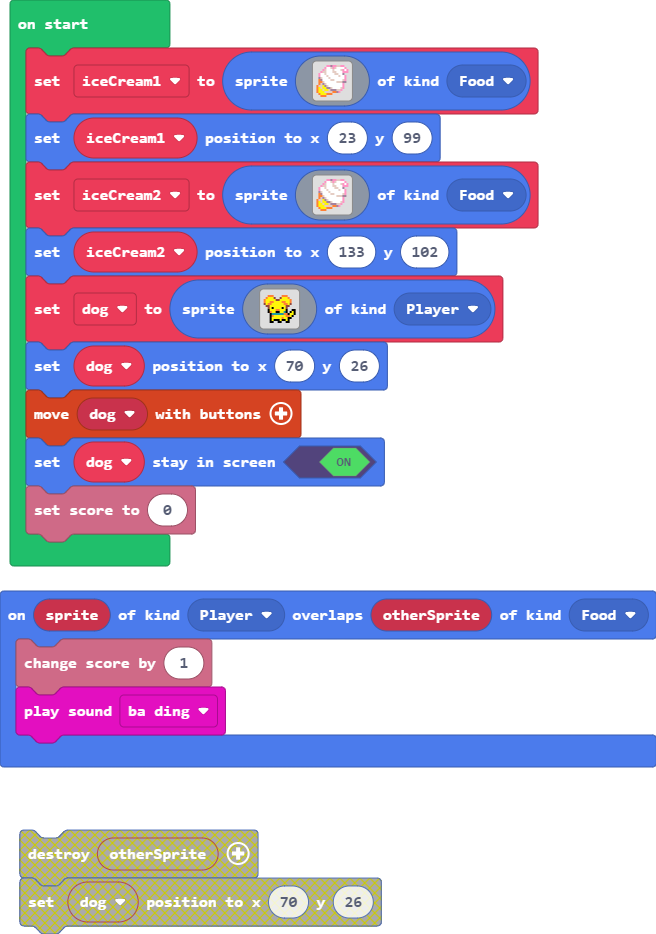
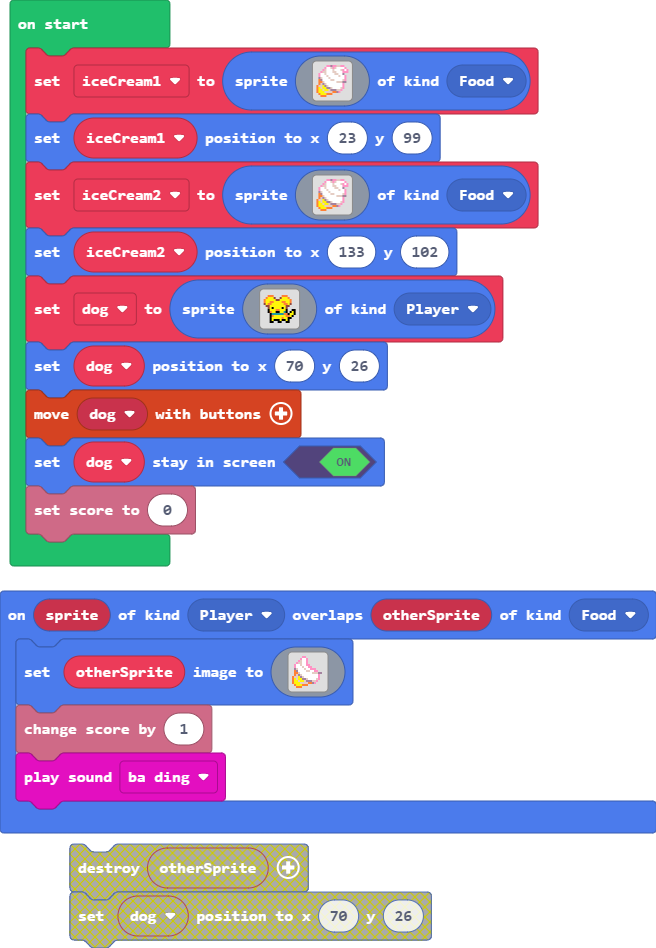
added set image to starter code

diff --git a/main.ts b/main.ts
@@ -1,4 +1,22 @@
 sprites.onOverlap(SpriteKind.Player, SpriteKind.Food, function (sprite, otherSprite) {
+    otherSprite.setImage(img`
+        . . . . . 3 3 . . . . . . . . . 
+        . . . . 3 1 1 3 . . . . . . . . 
+        . . . 3 d 1 1 3 . . . . . . . . 
+        . . 3 d d 1 1 3 . . . . . . . . 
+        . 3 1 1 d 1 1 3 3 . . . . . . . 
+        . 3 1 1 1 d 1 1 3 3 . . . . . . 
+        . b d 1 1 1 d 1 1 3 3 3 . . . . 
+        . 4 b 1 1 1 1 d d 1 1 3 3 . . . 
+        . 4 4 d 1 1 1 1 1 1 d d d b b . 
+        . 4 d b d 1 1 1 1 1 1 1 1 3 . . 
+        4 d d 5 b d 1 1 1 1 1 1 1 3 . . 
+        4 5 d 5 5 b b d 1 1 1 1 d 3 . . 
+        4 5 5 d 5 5 d b b b d d 3 . . . 
+        4 5 5 5 d d d d 4 4 b 3 . . . . 
+        . 4 5 5 5 4 4 4 . . . . . . . . 
+        . . 4 4 4 . . . . . . . . . . . 
+        `)
     info.changeScoreBy(1)
     music.baDing.play()
 })
